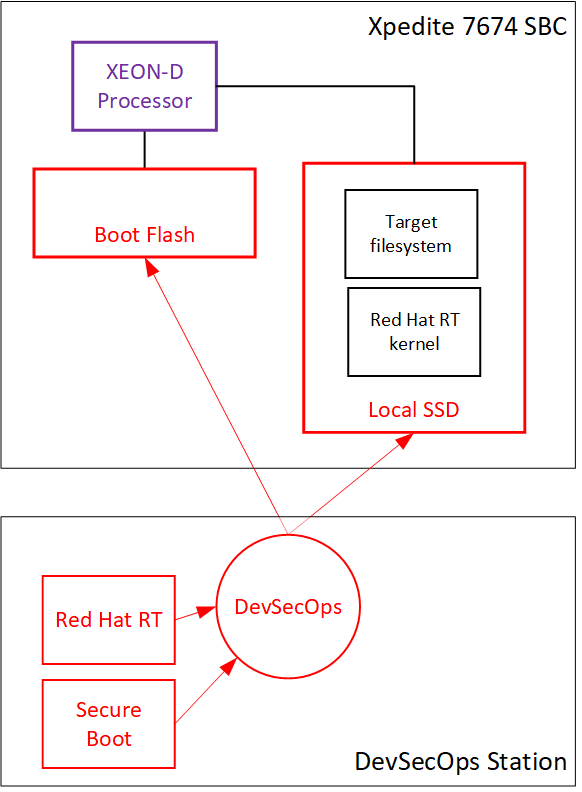
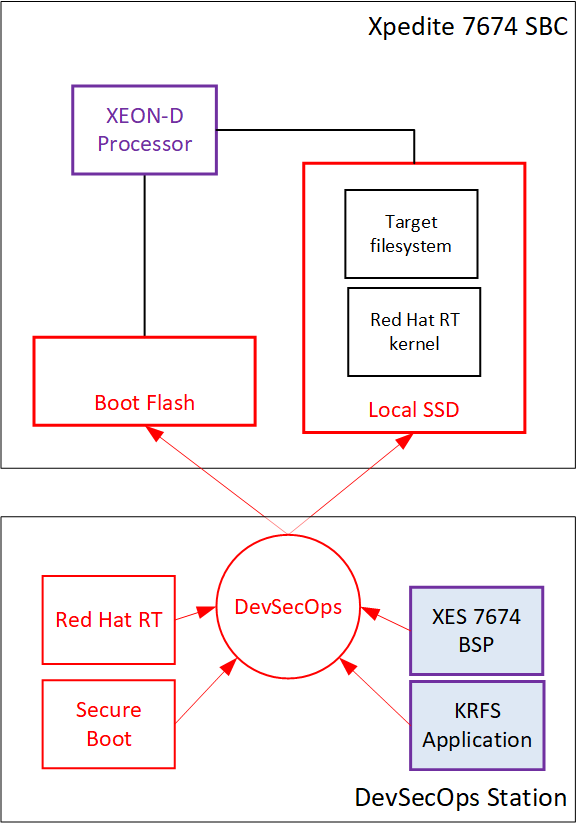
Initial draft of Section 6.

diff --git a/RedHatRealTime.tex b/RedHatRealTime.tex
@@ -722,12 +722,12 @@ Laptop for installation on the target using the PXE Boot mechanism of Figure
 \subsection{Red Hat RT Build}
 \label{sec:red_hat_build}
 
-With Red Hat RT, each individual developer or the Continuous Integration (CI)
-server (\textit{e.g.}, Jenkins) can install its own copy of the kernel source
-code or kernel development tools and build a local copy of the kernel, BSP, or
-device drivers (Figure \ref{fig:red_hat_dev}.  The open-source Red Hat LiveMedia
-Creator package can be used for creating the target Linux filesystem and the PXE
-boot tools.
+With Red Hat RT, each individual developer or the Continuous Integration (CI) /
+Continuous Deployment (CD) server (\textit{e.g.}, Jenkins) can install its own
+copy of the kernel source code or kernel development tools and build a local
+copy of the kernel, BSP, or device drivers (Figure \ref{fig:red_hat_dev}.  The
+open-source Red Hat LiveMedia Creator package can be used for creating the
+target Linux filesystem and the PXE boot tools.
 
 \begin{figure}[H]
     \begin{center}
@@ -747,12 +747,15 @@ using a DevSecOps facility as depicted in Figure \ref{fig:dev_sec_ops}.
 
 \begin{figure}[H]
     \begin{center}
-    \includegraphics[width=0.6\textwidth]{img/dev_sec_ops}
+    \includegraphics[width=0.4\textwidth]{img/dev_sec_ops}
     \caption{DevSecOps Linux deployment in K3}
     \label{fig:dev_sec_ops}
     \end{center}
 \end{figure}
 
+The DevSecOps facility combines Red Hat RT Linux and target filesystem with the
+KRFS application and the XES BSP and deploys directly to the bootflash and local
+SSD of the SBC.
 
 
 
@@ -935,13 +938,29 @@ of a new platform and process as depicted in Figure
 
 \subsection{Leveraging other Raytheon and open-source resources}
 
-\subsubsection{Red Hat Ansible and STIG Playbook}
+\subsubsection{Reusing Raytheon DevSecOps with Red Hat RT on XES SBC}
+The DevSecOps infrastructure from another Raytheon group is based
+on Red Hat RT running on a similar XES card.  This infrastructure can be
+leveraged by KRFS when running Red Hat RT on the KRFS SBC.
+
+\subsubsection{Leverage conventional builds for developers and CI/CD}
+By eliminating the proprietary RedHawk Architect build requirements, individual
+developers can turn through their build/test/deploy cycles more frequently and
+using conventional build system can be integrated into CI/CD to enable frequent
+and rapid deployment.
+
+\subsubsection{DevSecOps with open-source Ansible and STIG Playbook}
+The Raytheon DevSecOps infrastructure includes hardening tools based on
+Ansible and an open source Ansible STIG playbook whose future
+development and ongoing maintenance by the open-source community can be
+leveraged by KRFS.
 
 \subsubsection{Red Hat LiveMedia Creator}
+The Red Hat LiveMedia Creator can be used to create PXE-boot images and DVD
+installation images directly from source code by any developer or CI/CD machine.
+The Raytheon DevSecOps includes tools and a process for using LiveMedia Creator
+that can be leveraged for KRFS.
 
-\subsubsection{Red Hat RT Kernel Build}
-
-\subsubsection{Raytheon DevSecOps with Red Hat RT on Extreme}
 
 
 %%%%%%%%%%%%%%%%% Appendix A: Merge of RT Patch to mainline %%%%%%%%%%%%%%%%%%%%
